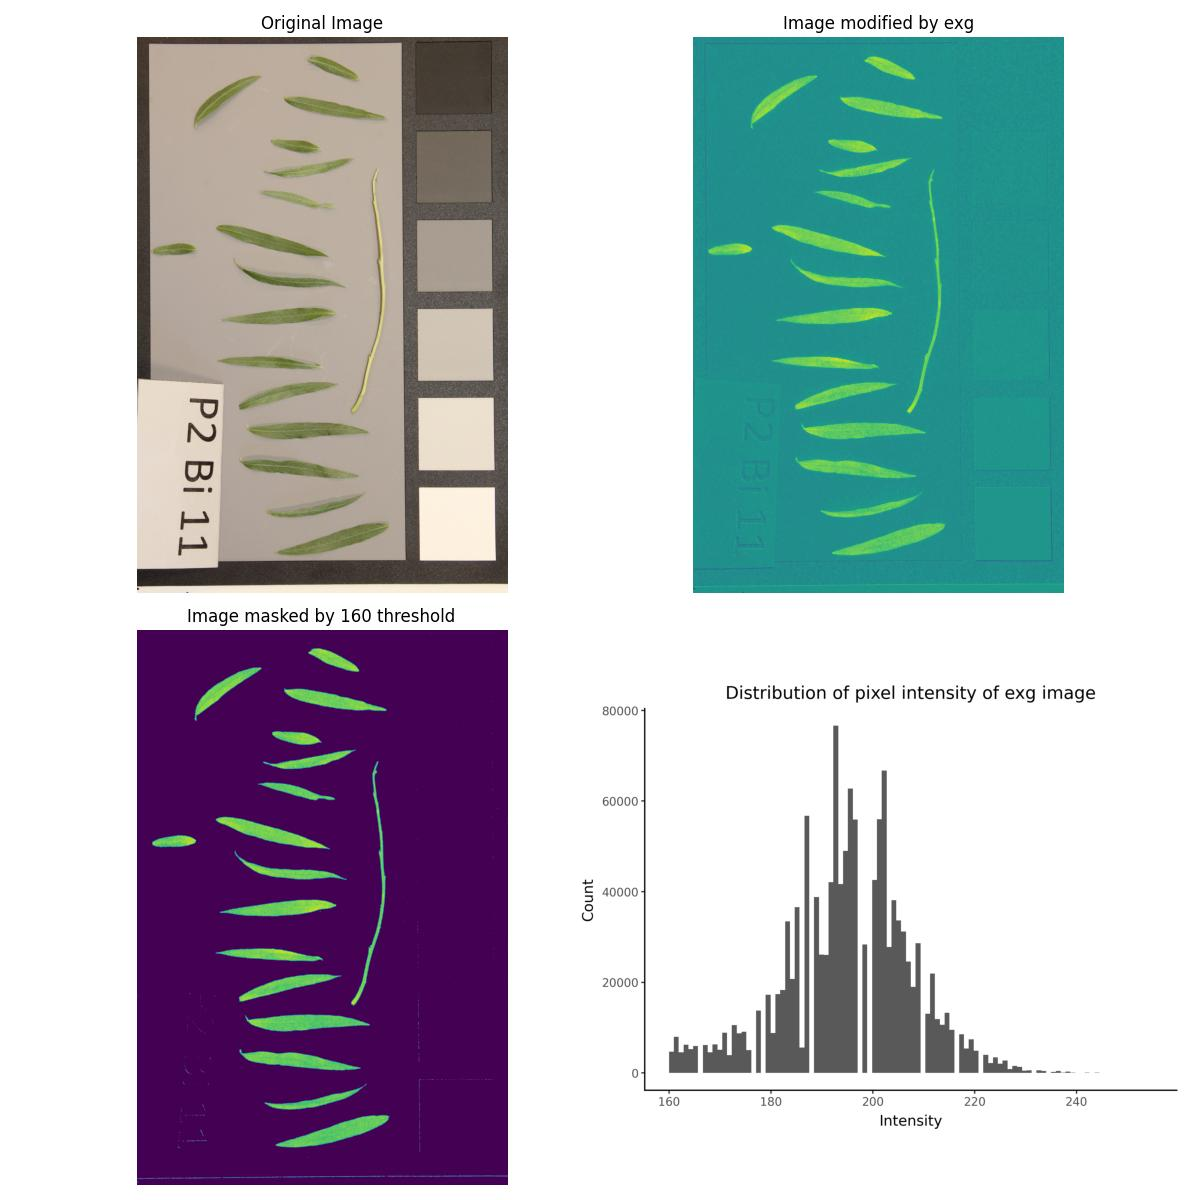
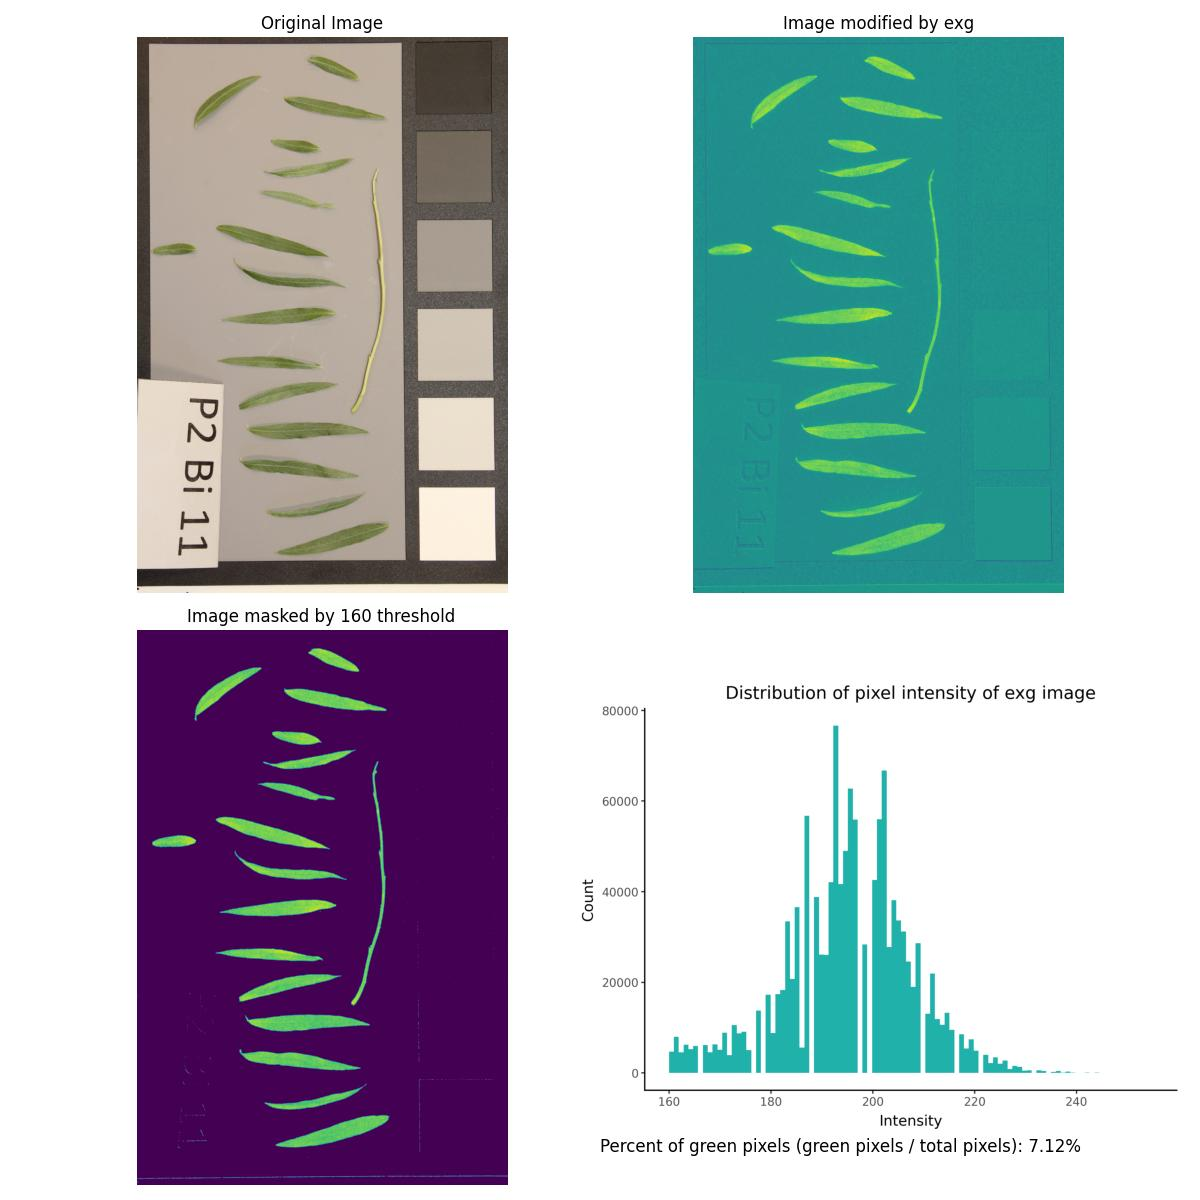
greenhouse master script output now includes percent green pixels

Changed region(s): [[0.555, 0.6167, 0.8633, 0.8942]]

diff --git a/master_script_greenhouse.py b/master_script_greenhouse.py
@@ -8,7 +8,7 @@ Specify your parameters in the main function.
 import cv2
 import pandas as pd
 from matplotlib import pyplot as plt
-from functions import apply_vegetative_index
+from functions import apply_vegetative_index, calc_live_plants_percentage
 from skimage import img_as_ubyte
 import plotnine as pn
 
@@ -65,6 +65,9 @@ def run_script(path, output_path, index_type, green_threshold):
     # Convert back to ubyte
     mask = img_as_ubyte(thresh_img)
 
+    # Calculate how many pixels are green
+    percent_green_pixels, _ = calc_live_plants_percentage(vi_img, green_threshold)
+
     # Apply the binary mask to the VI image
     # Only keep the pixels where the binary mask is white (255)
     img_masked = cv2.bitwise_and(vi_img, vi_img, mask = mask)
@@ -78,11 +81,11 @@ def run_script(path, output_path, index_type, green_threshold):
     # Create the plot
     plot = (pn.ggplot(df) + 
             pn.aes(x='intensity') + 
-            pn.geom_histogram(bins = 100) +
+            pn.geom_histogram(bins = 100, fill = 'lightseagreen') +
             pn.labs(
-                 x='Intensity',
-                 y='Count',
-                 title=f'Distribution of pixel intensity of {index_type} image'
+                 x = 'Intensity',
+                 y = 'Count',
+                 title = f'Distribution of pixel intensity of {index_type} image'
             ) +
             pn.theme_classic()
     )
@@ -113,6 +116,12 @@ def run_script(path, output_path, index_type, green_threshold):
     # Plot
     axs[1, 1].imshow(plot_image)
     axs[1, 1].axis('off')
+
+    # Turn the percent into an actual percent
+    percent = percent_green_pixels * 100
+
+    # Add text to the figure (outside the subplots)
+    fig.text(0.5, 0.04, f'Percent of green pixels (green pixels / total pixels): {percent:.2f}%', ha='left', fontsize=12)
 
     plt.tight_layout()
 
